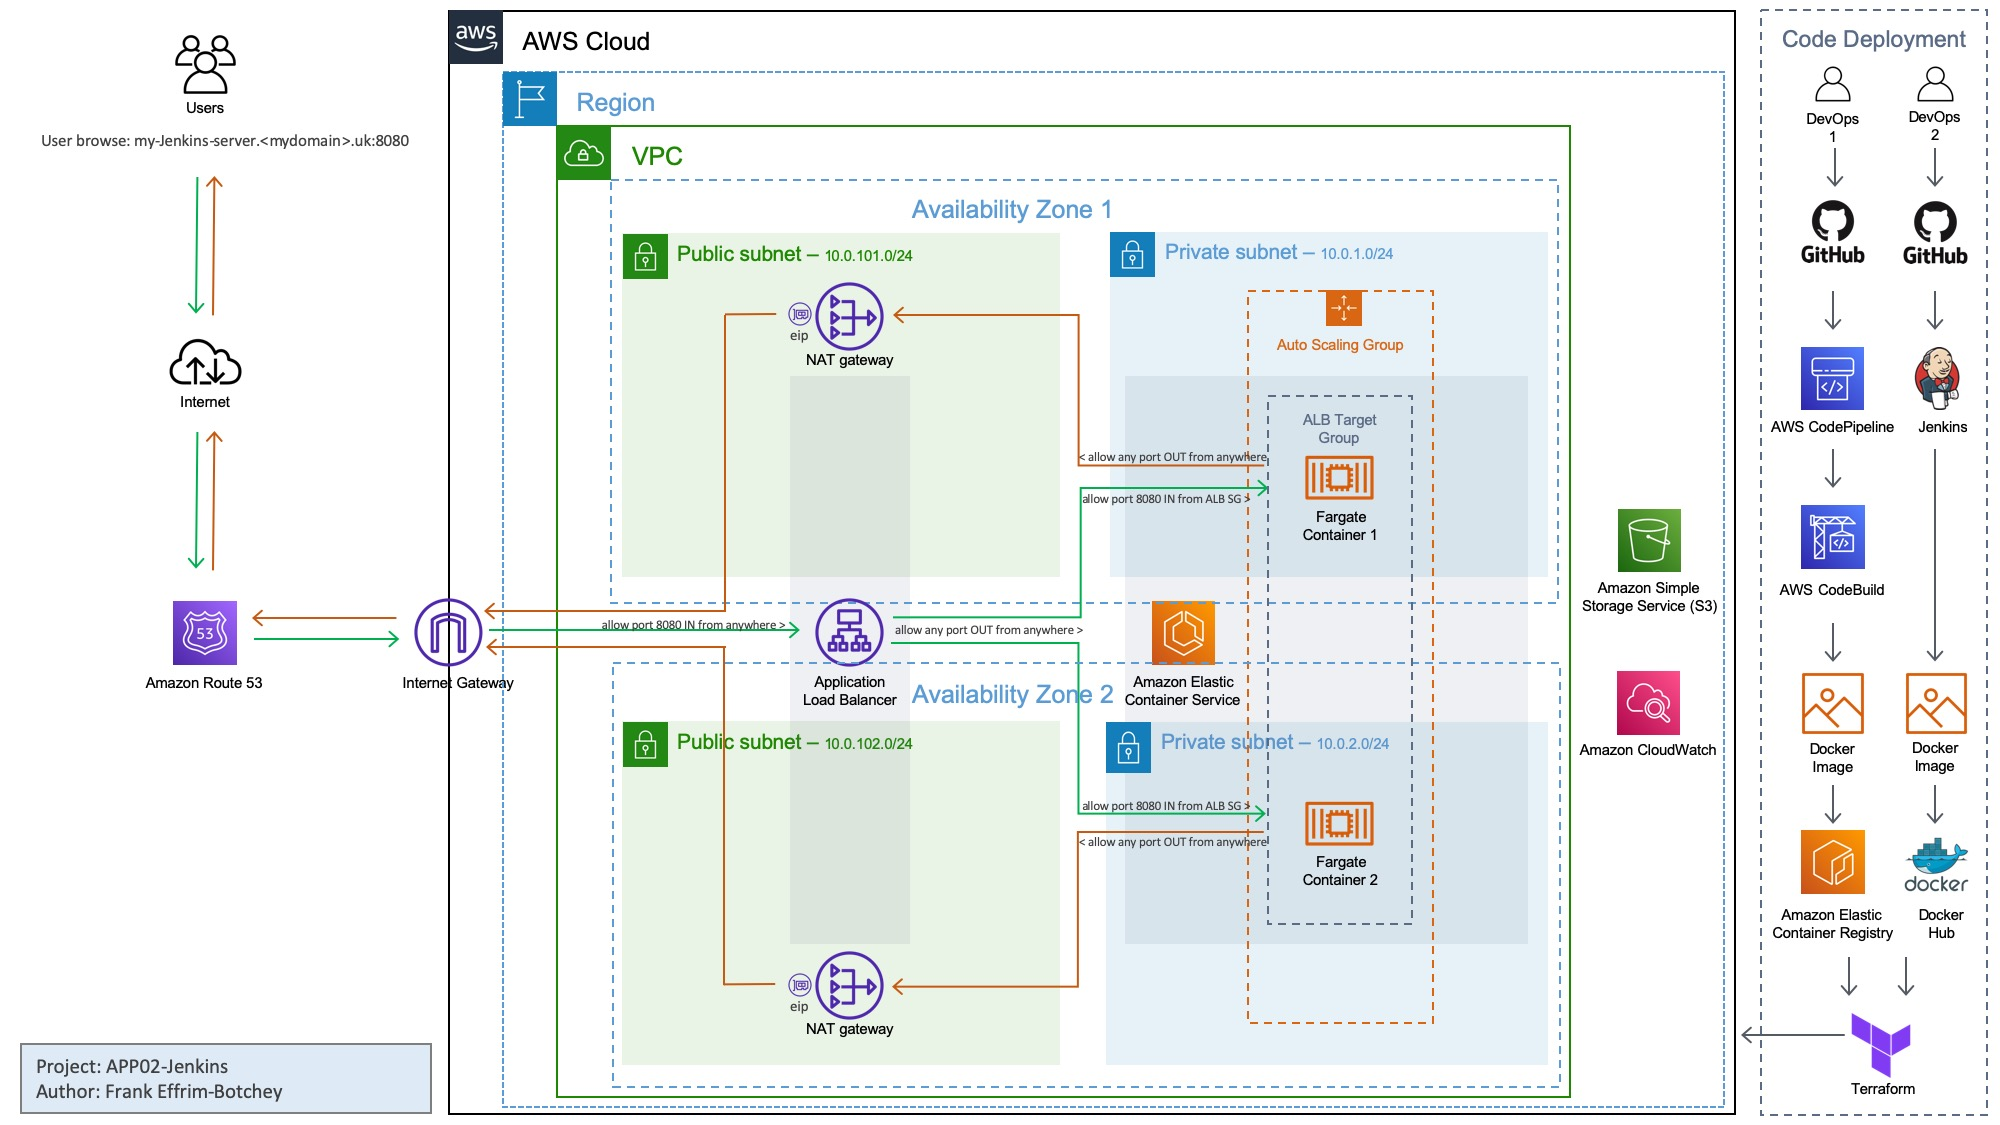
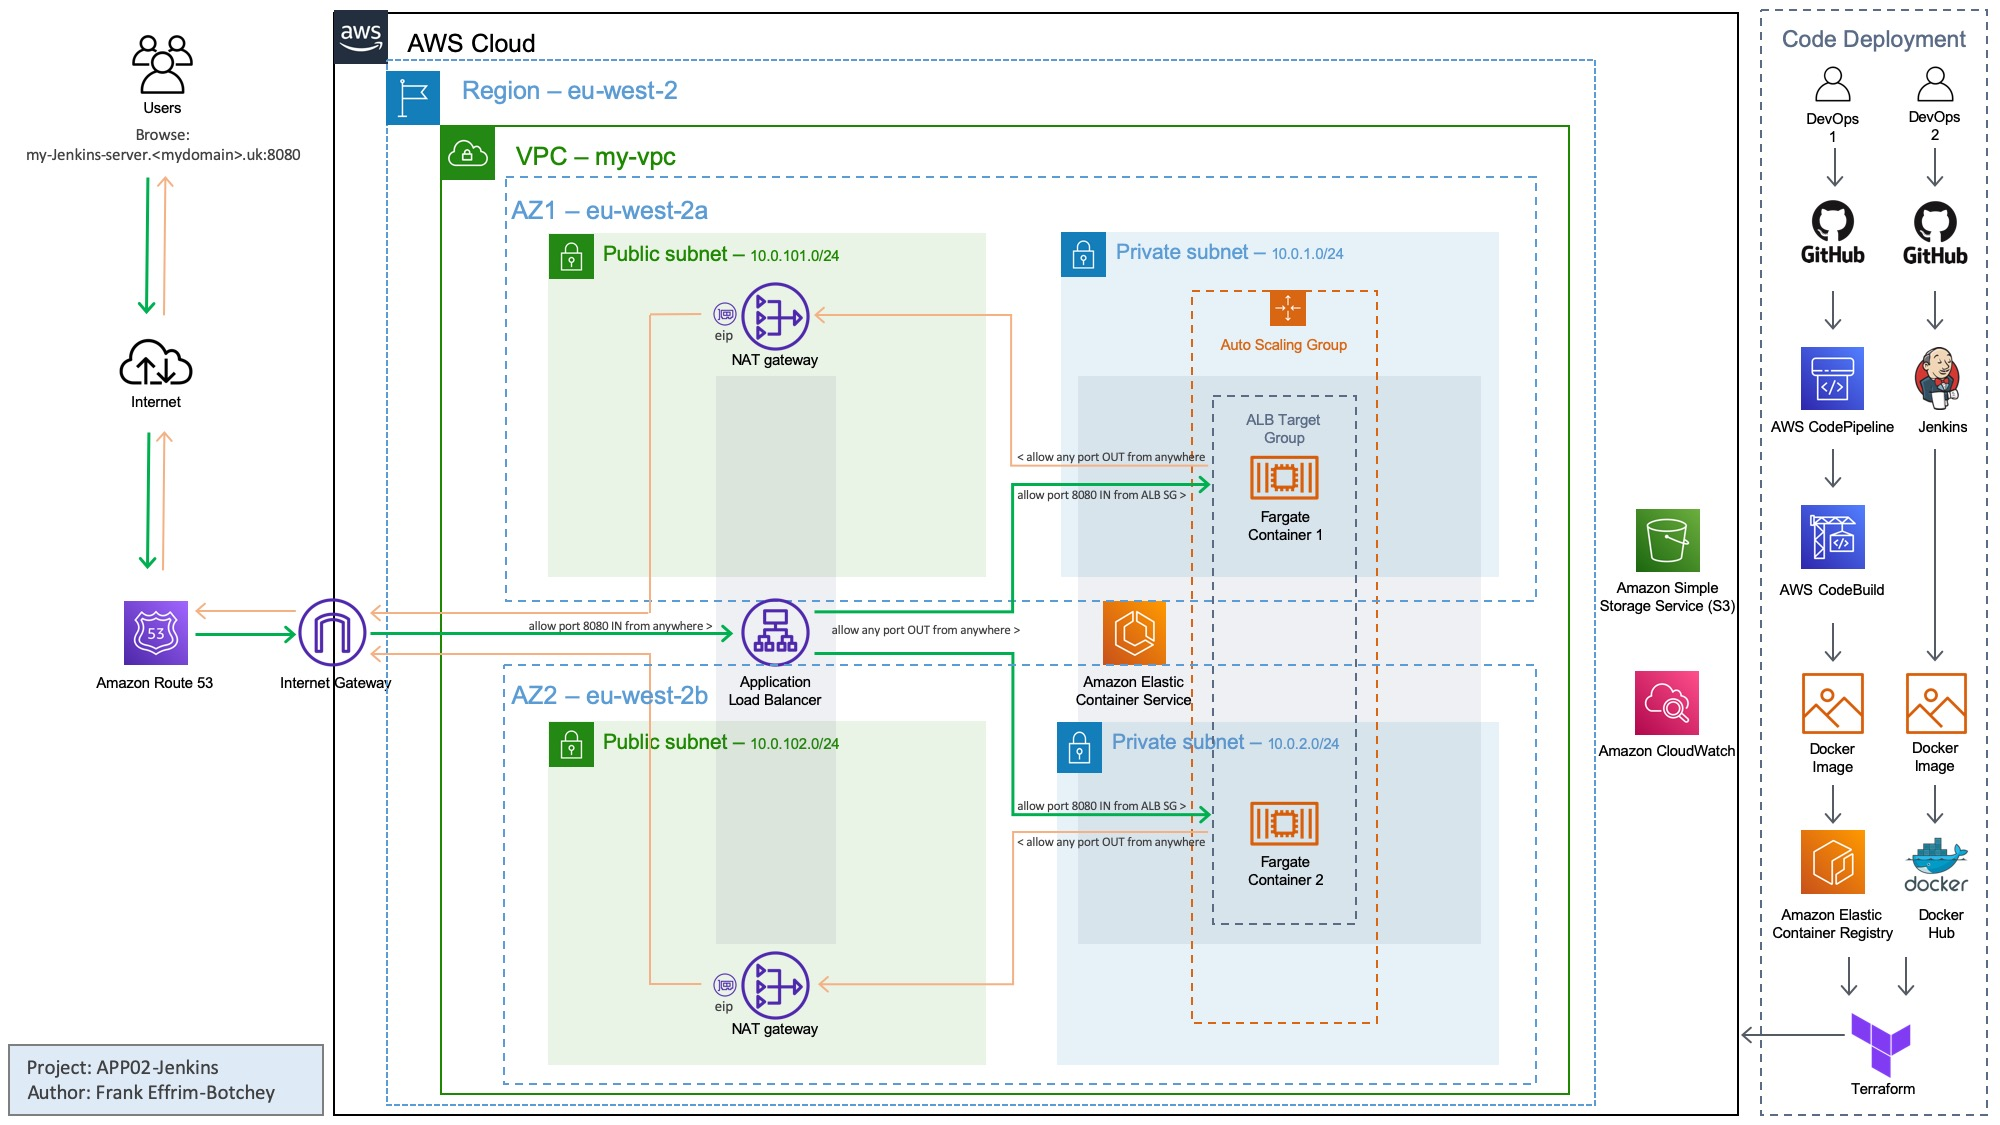
updated as per changelog-013

diff --git a/changelog.md b/changelog.md
@@ -37,7 +37,6 @@ Changelog-011
 updated aws, docker, git, nodejs & terraform cmds
 
 Changelog-012
-Changes not staged for commit:
         deleted:    latest/01a-vpc.tf
         modified:   latest/05b-lb-listeners.tf
         modified:   latest/05c-lb-tg.tf
@@ -50,8 +49,30 @@ Changes not staged for commit:
         modified:   latest/outputs.tf
         modified:   latest/variables.tf
 
-Untracked files:
+        Untracked files:
         latest/01a-vpc copy.tf
         latest/03a-ecs-service.tf
         latest/03b-ecs-td.tf
         latest/provider.tf
+
+
+Changelog-013
+        deleted:    latest/04a-sg.tf
+        deleted:    latest/04b-sg.tf
+        deleted:    latest/04c-sg-rules.tf
+        deleted:    latest/10b-cw-alarms..tf
+        modified:   diagrams/NETWORK DIAGRAM-APP02.jpg
+        modified:   latest/05a-lb-alb.tf
+        modified:   latest/05c-lb-tg.tf
+        modified:   latest/07a-s3-bucket.tf
+
+
+        Untracked files:
+        diagrams/NETWORK DIAGRAM-TF06-v0.4.jpg
+        latest/04a-sg-server.tf
+        latest/04b-sg-rules-server.tf
+        latest/04c-sg-lb.tf
+        latest/04d-sg-rules-lb.tf
+        latest/04e-sg-ecs.tf
+        latest/04f-sg-rules-ecs.tf
+        latest/10b-cw-alarms.tf
